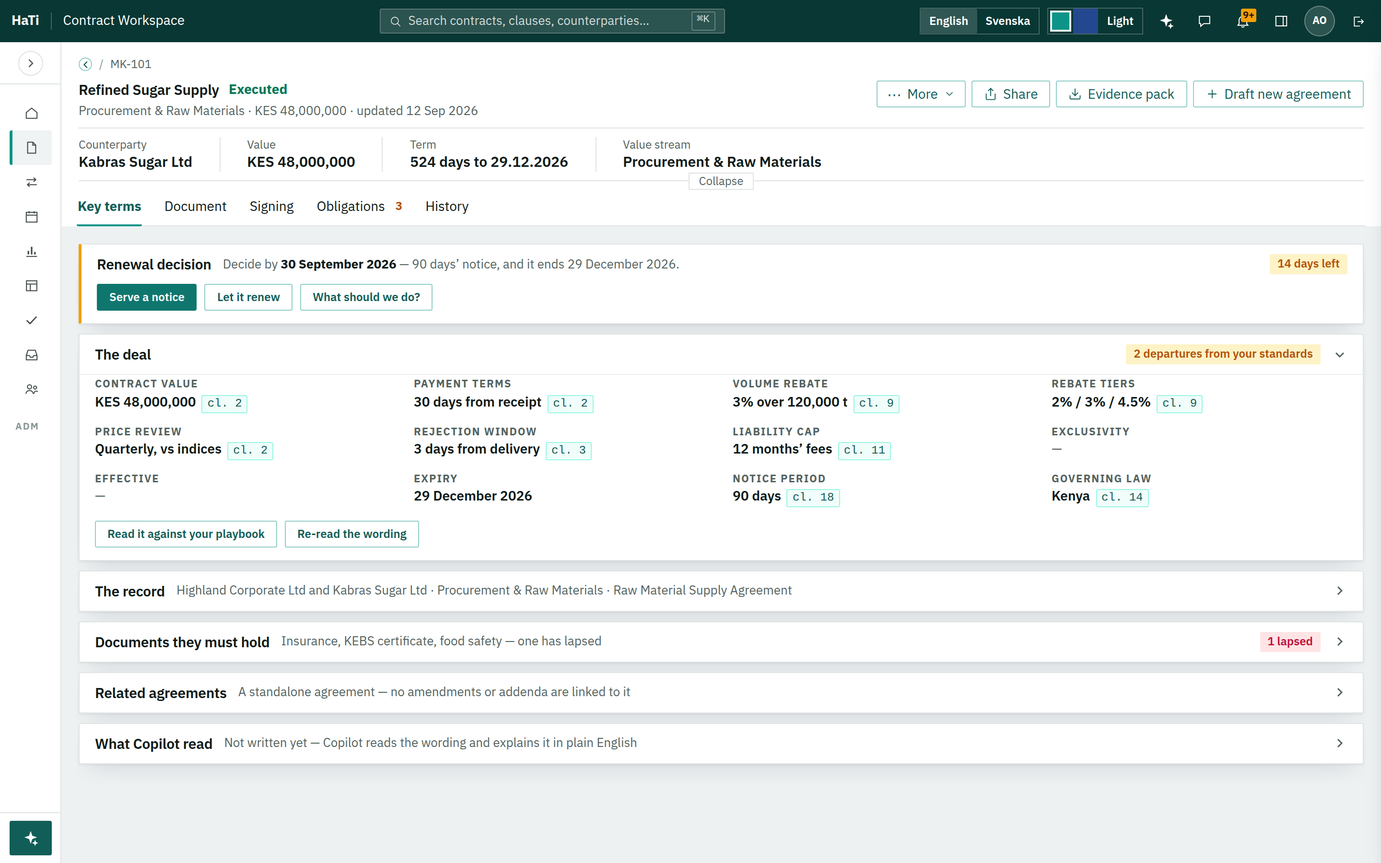
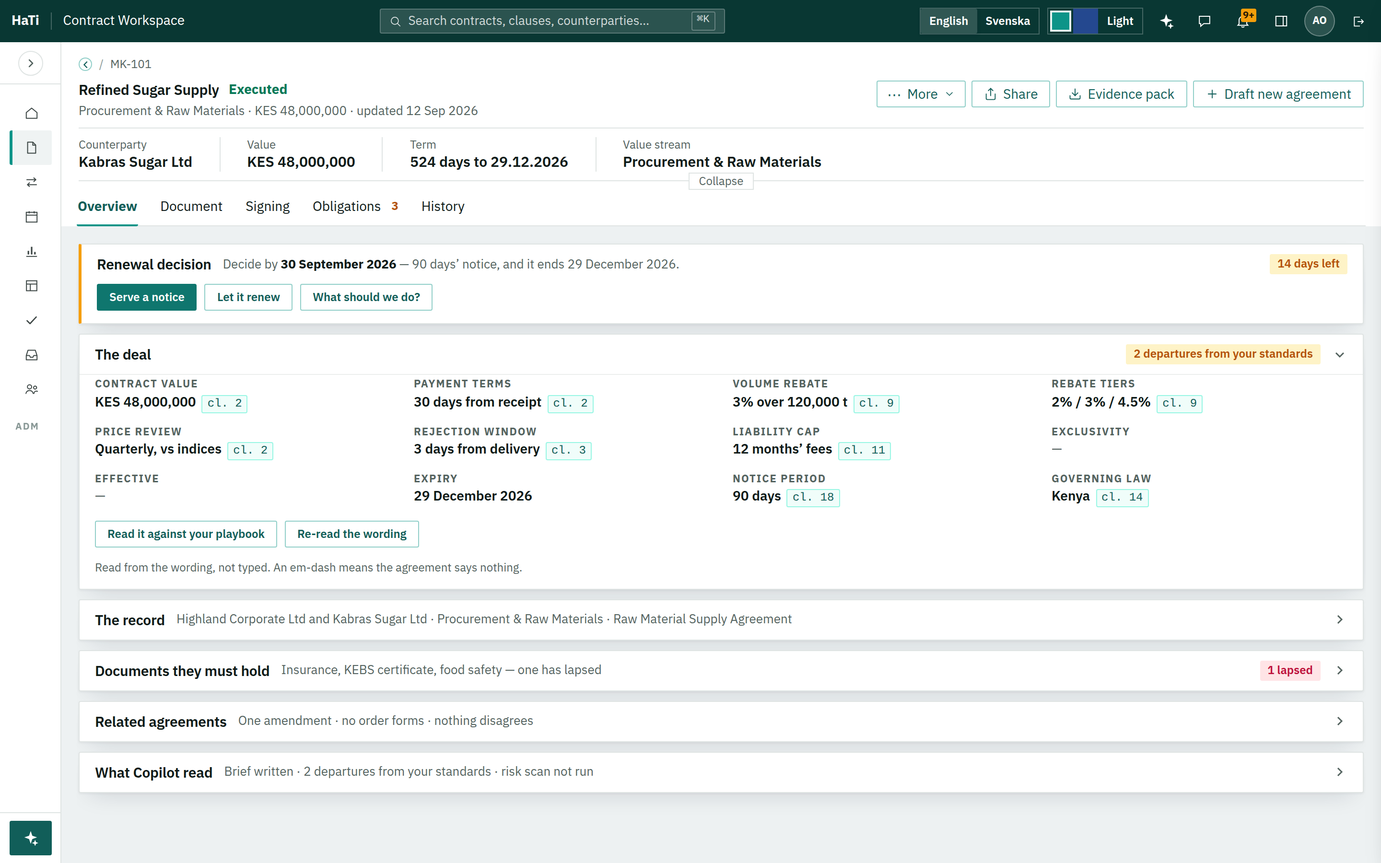
Rename the tab to Overview and show every section opened
Two changes the owner asked for after seeing the redesign.

The tab is renamed from Key terms to Overview in every render — it now
holds the deal, the filing record, the required documents, the family
and every reading Copilot has made, which is more than key terms. The
other four room tabs keep their names.

The four collapsed sections were shut in all the earlier pictures, so
nothing showed what was inside them. Added a fifteenth full screen with
every section expanded, captured on a tall viewport so none of the
1,495px stack is cut off, plus a written list of each section's fields
and acts.

What the opened sections hold: The record — twelve filing attributes
with Edit and Move to another stream. Documents they must hold — a
table of the certificate, the clause requiring it, what is on file and
how long it is good for, with Chase them and Require another. Related
agreements — parent, amendments, order forms, order of precedence, then
the family itself one row per document with whether it agrees. What
Copilot read — the brief, the playbook pass, the obligations found, the
risk scan and the plain-English edition, each with its date and a door,
which is where the old Write the brief button now lives.

Claude-Session: https://claude.ai/code/session_014huwJ3Ngo4EuqV3t8NyciQ

Changed region(s): [[0.0625, 0.6222, 1.0, 0.9022], [0.0625, 0.2178, 0.3438, 0.2489]]

diff --git a/docs/review-shots/overview3.js b/docs/review-shots/overview3.js
@@ -1,0 +1,185 @@
+const fs=require('node:fs'), path=require('node:path');
+const { chromium } = require('/home/user/mkataba-clm/node_modules/playwright-core');
+const { startHati, seedWorkspace } = require('/home/user/mkataba-clm/test/helpers');
+const { CONTRACTS } = require('/tmp/claude-0/-home-user-mkataba-clm/54a1252e-7fd0-584c-b937-a8fcb2070e56/scratchpad/seed.js');
+const OUT='/tmp/claude-0/-home-user-mkataba-clm/54a1252e-7fd0-584c-b937-a8fcb2070e56/scratchpad/shots';
+
+const LIB = `
+  const SEC='background:var(--color-surface);border:1px solid var(--color-divider);box-shadow:var(--shadow-sm);border-radius:var(--radius);margin-bottom:10px';
+  const HEAD='display:flex;align-items:center;gap:12px;padding:10px 16px;cursor:pointer';
+  const H='margin:0;font-size:var(--t-card);font-weight:var(--w-strong);font-family:var(--font-heading);flex:none';
+  const SUM='font-size:var(--t-meta);color:var(--color-neutral-600);flex:1;min-width:0;overflow:hidden;text-overflow:ellipsis;white-space:nowrap';
+  const GRID='display:grid;grid-template-columns:repeat(4,minmax(0,1fr));gap:12px 24px;padding:2px 16px 14px';
+  const chip=(t,tone)=>'<span style="font-size:var(--t-label);font-weight:var(--w-strong);color:var(--st-'+tone+'-fg);background:var(--st-'+tone+'-bg);border-radius:var(--radius);padding:2px 8px;flex:none">'+t+'</span>';
+  const chev=o=>'<svg width="16" height="16" viewBox="0 0 16 16" fill="none" stroke="var(--color-neutral-500)" stroke-width="1.5" style="flex:none;transform:rotate('+(o?'0':'-90')+'deg)"><path d="M4 6l4 4 4-4"/></svg>';
+  const f=(l,v,cl,tone)=>'<div style="min-width:0">'
+    +'<div style="font-size:var(--t-micro);font-weight:var(--w-title);letter-spacing:.09em;text-transform:uppercase;color:var(--color-neutral-600);margin-bottom:1px">'+l+'</div>'
+    +'<div style="display:flex;align-items:baseline;gap:6px;min-width:0">'
+    +'<span style="font-size:var(--t-body);font-weight:var(--w-strong);'+(tone?'color:'+tone+';':'')+'min-width:0;overflow:hidden;text-overflow:ellipsis;white-space:nowrap">'+v+'</span>'
+    +(cl?'<span style="font-family:var(--font-code);font-size:var(--t-label);color:var(--accent-ink);border:1px solid var(--color-accent-200);background:var(--color-accent-50);border-radius:var(--radius);padding:0 5px;flex:none">'+cl+'</span>':'')
+    +'</div></div>';
+  const dash='<span style="color:var(--color-neutral-500);font-weight:400">&mdash;</span>';
+  const btn=(t,pri)=>'<button type="button" class="ui-btn'+(pri?' ui-btn-primary':'')+'" style="font-size:var(--t-label);padding:5px 12px">'+t+'</button>';
+  const acts=h=>'<div style="display:flex;gap:8px;padding:0 16px 13px;flex-wrap:wrap">'+h+'</div>';
+  const foot=t=>'<p style="margin:0;padding:0 16px 13px;font-size:var(--t-label);color:var(--color-neutral-600)">'+t+'</p>';
+  const secOpen=(title,chipHtml,body,actsHtml,footHtml)=>'<section style="'+SEC+'">'
+    +'<div style="'+HEAD+';border-bottom:1px solid var(--rule-faint)"><h3 style="'+H+'">'+title+'</h3>'
+      +'<span style="'+SUM+'"></span>'+(chipHtml||'')+chev(1)+'</div>'
+    +body+(actsHtml?acts(actsHtml):'')+(footHtml?foot(footHtml):'')+'</section>';
+  const secShut=(title,summary,chipHtml)=>'<section style="'+SEC+'">'
+    +'<div style="'+HEAD+'"><h3 style="'+H+'">'+title+'</h3>'
+      +'<span style="'+SUM+'">'+summary+'</span>'+(chipHtml||'')+chev(0)+'</div></section>';
+  const cols=b=>'<div style="'+GRID+'">'+b+'</div>';
+  const TH='text-align:left;font-size:var(--t-micro);font-weight:var(--w-title);letter-spacing:.09em;text-transform:uppercase;color:var(--color-neutral-600);padding:8px 0;border-bottom:1px solid var(--rule-faint)';
+  const TD='padding:10px 0;border-bottom:1px solid var(--rule-faint);font-size:var(--t-body)';
+`;
+
+const SECTIONS = `
+  const renewal='<section style="'+SEC+';border-left:3px solid var(--st-amber-dot)">'
+    +'<div style="'+HEAD+'"><h3 style="'+H+'">Renewal decision</h3>'
+      +'<span style="'+SUM+'">Decide by <b style="color:var(--color-text)">30 September 2026</b> &mdash; 90 days&rsquo; notice, and it ends 29 December 2026.</span>'
+      +chip('14 days left','amber')+'</div>'
+    +acts(btn('Serve a notice',1)+btn('Let it renew')+btn('What should we do?'))+'</section>';
+
+  const dealBody=cols(
+      f('Contract value','KES 48,000,000','cl. 2')+f('Payment terms','30 days from receipt','cl. 2')
+     +f('Volume rebate','3% over 120,000 t','cl. 9')+f('Rebate tiers','2% / 3% / 4.5%','cl. 9')
+     +f('Price review','Quarterly, vs indices','cl. 2')+f('Rejection window','3 days from delivery','cl. 3')
+     +f('Liability cap','12 months&rsquo; fees','cl. 11')+f('Exclusivity',dash)
+     +f('Effective',dash)+f('Expiry','29 December 2026')+f('Notice period','90 days','cl. 18')+f('Governing law','Kenya','cl. 14'));
+  const deal=secOpen('The deal', chip('2 departures from your standards','amber'), dealBody,
+      btn('Read it against your playbook')+btn('Re-read the wording'),
+      'Read from the wording, not typed. An em-dash means the agreement says nothing.');
+
+  const recordBody=cols(
+      f('Reference','MK-101')+f('Our party','Highland Corporate Ltd')+f('Counterparty','Kabras Sugar Ltd')+f('Their email',dash)
+     +f('Value stream','Procurement &amp; Raw Materials')+f('Template','Raw Material Supply Agreement')
+     +f('Owner','Amina Otieno')+f('Status','Executed')
+     +f('Raised','23 July 2025')+f('Signed','23 July 2025')+f('Filed by','Amina Otieno')+f('Last updated','12 September 2026'));
+  const recordSum='Highland Corporate Ltd and Kabras Sugar Ltd &middot; Procurement &amp; Raw Materials &middot; Raw Material Supply Agreement';
+
+  const docsBody='<div style="padding:2px 16px 8px"><table style="width:100%;border-collapse:collapse;table-layout:fixed">'
+    +'<colgroup><col><col style="width:110px"><col style="width:190px"><col style="width:180px"><col style="width:130px"></colgroup>'
+    +'<thead><tr><th style="'+TH+'">Document</th><th style="'+TH+'">Required by</th><th style="'+TH+'">On file</th><th style="'+TH+'">Good until</th><th style="'+TH+'"></th></tr></thead><tbody>'
+    +'<tr><td style="'+TD+';font-weight:var(--w-strong)">Product liability insurance</td><td style="'+TD+'"><span style="font-family:var(--font-code);font-size:var(--t-label);color:var(--accent-ink)">cl. 8</span></td>'
+      +'<td style="'+TD+';color:var(--color-neutral-600)">Policy 2026 &middot; PDF</td><td style="'+TD+';color:var(--st-ruby-fg);font-weight:var(--w-strong)">Lapsed 14 Sept</td>'
+      +'<td style="'+TD+'"><a href="#" style="color:var(--accent-ink);font-weight:var(--w-strong)">Chase them</a></td></tr>'
+    +'<tr><td style="'+TD+';font-weight:var(--w-strong)">KEBS standard certificate</td><td style="'+TD+'"><span style="font-family:var(--font-code);font-size:var(--t-label);color:var(--accent-ink)">cl. 1</span></td>'
+      +'<td style="'+TD+';color:var(--color-neutral-600)">KS 2456:2024</td><td style="'+TD+'">30 April 2027</td>'
+      +'<td style="'+TD+'"><a href="#" style="color:var(--accent-ink)">Replace</a></td></tr>'
+    +'<tr><td style="'+TD+';font-weight:var(--w-strong)">Food safety (FSSC 22000)</td><td style="'+TD+'"><span style="font-family:var(--font-code);font-size:var(--t-label);color:var(--accent-ink)">cl. 3</span></td>'
+      +'<td style="'+TD+';color:var(--color-neutral-500);font-style:italic">Never supplied</td><td style="'+TD+'">'+dash+'</td>'
+      +'<td style="'+TD+'"><a href="#" style="color:var(--accent-ink);font-weight:var(--w-strong)">Ask for it</a></td></tr>'
+    +'</tbody></table></div>';
+  const docsSum='Insurance, KEBS certificate, food safety &mdash; one has lapsed';
+
+  const famBody=cols(
+      f('Parent','None &mdash; this is the top')+f('Amendments','1')+f('Order forms',dash)+f('Order of precedence','This agreement wins','cl. 21'))
+    +'<div style="padding:2px 16px 8px"><table style="width:100%;border-collapse:collapse;table-layout:fixed">'
+    +'<colgroup><col style="width:130px"><col><col style="width:190px"><col style="width:160px"></colgroup>'
+    +'<thead><tr><th style="'+TH+'">Reference</th><th style="'+TH+'">Document</th><th style="'+TH+'">Signed</th><th style="'+TH+'">Agrees?</th></tr></thead><tbody>'
+    +'<tr><td style="'+TD+'"><span style="font-family:var(--font-code);font-size:var(--t-meta);color:var(--accent-ink)">MK-101-A1</span></td>'
+      +'<td style="'+TD+';font-weight:var(--w-strong)">Amendment 1 &mdash; price review moved to quarterly</td>'
+      +'<td style="'+TD+';color:var(--color-neutral-600)">4 March 2026</td>'
+      +'<td style="'+TD+';color:var(--st-green-fg);font-weight:var(--w-strong)">Agrees</td></tr>'
+    +'</tbody></table></div>';
+  const famSum='One amendment &middot; no order forms &middot; nothing disagrees';
+
+  const copilotBody='<div style="padding:2px 16px 8px"><table style="width:100%;border-collapse:collapse;table-layout:fixed">'
+    +'<colgroup><col style="width:210px"><col><col style="width:150px"><col style="width:150px"></colgroup>'
+    +'<thead><tr><th style="'+TH+'">Reading</th><th style="'+TH+'">What it found</th><th style="'+TH+'">When</th><th style="'+TH+'"></th></tr></thead><tbody>'
+    +'<tr><td style="'+TD+';font-weight:var(--w-strong)">The brief</td>'
+      +'<td style="'+TD+';color:var(--color-neutral-600)">A two-year sugar supply on our own paper. Watch the quarterly price review &mdash; it is tied to an index with no ceiling.</td>'
+      +'<td style="'+TD+';color:var(--color-neutral-600)">14 Sept 2026</td>'
+      +'<td style="'+TD+'"><a href="#" style="color:var(--accent-ink)">Read it all</a></td></tr>'
+    +'<tr><td style="'+TD+';font-weight:var(--w-strong)">Against your standards</td>'
+      +'<td style="'+TD+';color:var(--st-amber-fg)">2 departures &mdash; payment terms 30 days against your 45, no ceiling on the price review</td>'
+      +'<td style="'+TD+';color:var(--color-neutral-600)">14 Sept 2026</td>'
+      +'<td style="'+TD+'"><a href="#" style="color:var(--accent-ink);font-weight:var(--w-strong)">Open the review</a></td></tr>'
+    +'<tr><td style="'+TD+';font-weight:var(--w-strong)">Obligations found</td>'
+      +'<td style="'+TD+';color:var(--color-neutral-600)">3 &mdash; two theirs, one ours</td>'
+      +'<td style="'+TD+';color:var(--color-neutral-600)">14 Sept 2026</td>'
+      +'<td style="'+TD+'"><a href="#" style="color:var(--accent-ink)">Open Obligations</a></td></tr>'
+    +'<tr><td style="'+TD+';font-weight:var(--w-strong)">Risk scan</td>'
+      +'<td style="'+TD+';color:var(--color-neutral-500);font-style:italic">Not run on this wording</td>'
+      +'<td style="'+TD+'">'+dash+'</td>'
+      +'<td style="'+TD+'"><a href="#" style="color:var(--accent-ink);font-weight:var(--w-strong)">Run it</a></td></tr>'
+    +'<tr><td style="'+TD+';font-weight:var(--w-strong)">Plain English edition</td>'
+      +'<td style="'+TD+';color:var(--color-neutral-600)">Ready &mdash; 21 clauses, read clause by clause</td>'
+      +'<td style="'+TD+';color:var(--color-neutral-600)">14 Sept 2026</td>'
+      +'<td style="'+TD+'"><a href="#" style="color:var(--accent-ink)">Open it</a></td></tr>'
+    +'</tbody></table></div>';
+  const copilotSum='Brief written &middot; 2 departures from your standards &middot; risk scan not run';
+`;
+
+(async()=>{
+  const h=await startHati(); await seedWorkspace(h,{contracts:CONTRACTS});
+  const b=await chromium.launch({executablePath:'/opt/pw-browsers/chromium',args:['--no-sandbox']});
+  const page=await b.newPage({viewport:{width:1440,height:900},deviceScaleFactor:2});
+  await page.goto(h.base+'/',{waitUntil:'networkidle'});
+  await page.fill('#li-email','admin@example.co.ke'); await page.fill('#li-pass','adminpassword1');
+  await page.click('#li-go'); await page.waitForTimeout(3800);
+  const rename=()=>page.evaluate(()=>{const t=document.querySelector('[data-room-tab="terms"]'); if(t) t.textContent='Overview';});
+  await page.evaluate(()=>openWorkspace('MK-101')); await page.waitForTimeout(2400);
+  await page.click('[data-room-tab="terms"]'); await page.waitForTimeout(1800);
+  await rename();
+
+  // ---- state 1: how it opens ----
+  const m1=await page.evaluate(LIB+SECTIONS+`
+    const grid=document.querySelector('.terms-grid');
+    grid.style.display='block';
+    grid.innerHTML='<div>'+renewal+deal
+      +secShut('The record',recordSum,'')
+      +secShut('Documents they must hold',docsSum,chip('1 lapsed','ruby'))
+      +secShut('Related agreements',famSum,'')
+      +secShut('What Copilot read',copilotSum,'')+'</div>';
+    const p=grid.firstElementChild;
+    ({stack:Math.round(p.getBoundingClientRect().height),track:Math.round(grid.getBoundingClientRect().height)});
+  `);
+  console.log('DEFAULT', JSON.stringify(m1));
+  await page.waitForTimeout(400);
+  await page.screenshot({path:path.join(OUT,'H1-overview.png')});
+
+  // ---- state 2: every section open ----
+  const m2=await page.evaluate(LIB+SECTIONS+`
+    const grid=document.querySelector('.terms-grid');
+    grid.style.display='block';
+    grid.innerHTML='<div>'+renewal+deal
+      +secOpen('The record','<span style="font-size:var(--t-meta);color:var(--color-neutral-600)">What HaTi files this as</span>',recordBody,btn('Edit these details')+btn('Move to another stream'),'')
+      +secOpen('Documents they must hold',chip('1 lapsed','ruby'),docsBody,btn('Chase them')+btn('Require another document'),'Chases go to the contact on the contract, never to an address typed here. These are the same rows the Obligations tab tracks.')
+      +secOpen('Related agreements','<span style="font-size:var(--t-meta);color:var(--color-neutral-600)">One amendment</span>',famBody,btn('Create an amendment')+btn('Link an existing document')+btn('Check the family'),'')
+      +secOpen('What Copilot read',chip('2 departures','amber'),copilotBody,btn('Read it all again'),'Every reading says when it was made. A reading older than the wording is offered again rather than trusted.')
+      +'</div>';
+    const p=grid.firstElementChild;
+    ({stack:Math.round(p.getBoundingClientRect().height),track:Math.round(grid.getBoundingClientRect().height)});
+  `);
+  console.log('ALL OPEN', JSON.stringify(m2));
+  await page.setViewportSize({width:1440,height:1820});
+  await page.waitForTimeout(900);
+  await page.evaluate(()=>{const g=document.querySelector('.terms-grid'); if(g){g.style.height='auto';g.style.overflow='visible';}});
+  await page.waitForTimeout(500);
+  await page.screenshot({path:path.join(OUT,'H3-overview-open.png')});
+  await page.setViewportSize({width:1440,height:900});
+  await page.waitForTimeout(600);
+
+  // ---- the NDA, renamed ----
+  await page.evaluate(()=>openWorkspace('MK-121')); await page.waitForTimeout(2200);
+  await page.click('[data-room-tab="terms"]'); await page.waitForTimeout(1600);
+  await rename();
+  await page.evaluate(LIB+`
+    const grid=document.querySelector('.terms-grid');
+    grid.style.display='block';
+    const ndaBody='<div style="'+GRID+'">'
+      +f('Contract value','No money passes')+f('Effective',dash)+f('Expiry','20 November 2027')+f('Notice period',dash)
+      +f('Confidentiality','3 years','cl. 4')+f('Governing law','Kenya','cl. 9')+f('Liability cap',dash)+f('Exclusivity',dash)
+      +'</div>';
+    grid.innerHTML='<div>'
+      +secOpen('The deal','',ndaBody,btn('Read it against your playbook'),'Read from the wording, not typed.')
+      +secShut('The record','Highland Corporate Ltd and Givaudan East Africa &middot; Corporate &amp; Compliance &middot; Mutual NDA','')
+      +secShut('Related agreements','A standalone agreement','')
+      +secShut('What Copilot read','Not written yet','')+'</div>';
+  `);
+  await page.waitForTimeout(400);
+  await page.screenshot({path:path.join(OUT,'H2-overview-nda.png')});
+  await b.close(); process.exit(0);
+})().catch(e=>{console.error(e);process.exit(1);});

diff --git a/HaTi-Next-Fifteen-product-review.html b/HaTi-Next-Fifteen-product-review.html
@@ -186,7 +186,7 @@ table.ld tr:last-child td{border-bottom:0}
     <p class="stand">Six full screens, each shown as HaTi draws it today and again with the fifteen additions placed
       on it. Both pictures are the real product running &mdash; not drawings of it.</p>
     <div class="meta">
-      <span><b>14</b> full screens</span>
+      <span><b>15</b> full screens</span>
       <span><b>6</b> pages touched</span>
       <span><b>0</b> new doors in the sidebar</span>
       <span><b>1</b> new tab anywhere</span>
@@ -310,7 +310,7 @@ table.ld tr:last-child td{border-bottom:0}
 <!-- ===================== THE CONTRACT ROOM ===================== -->
 <article class="screen" id="room">
   <div class="screen-top"><span class="screen-n">3 of 6</span>
-    <h3>The contract room &mdash; redesigned, not extended</h3>
+    <h3>The contract room &mdash; Key terms becomes Overview</h3>
     <p class="carries">Carries <b>S2</b> commercial terms &middot; <b>S8</b> required documents &middot;
       <b>S6</b> serve a notice &middot; <b>S12</b> the family check</p>
   </div>
@@ -365,15 +365,48 @@ table.ld tr:last-child td{border-bottom:0}
       <div class="frame"><img src="docs/review-shots/C2-room-future.png" alt="The same tab with Commercial terms and Documents they must hold added as two more cards in the right column, which now stacks to 1046 pixels in a 632 pixel track and scrolls" loading="lazy"></div>
     </figure>
     <figure class="plate now">
-      <input type="checkbox" class="zm" id="z-h1"><figcaption><span class="dot"></span>Recommended &mdash; one page of named sections
+      <input type="checkbox" class="zm" id="z-h1"><figcaption><span class="dot"></span>Recommended &mdash; the tab renamed <b style="font-family:var(--sans);letter-spacing:0;text-transform:none;font-size:12.5px">Overview</b>, as it opens
         <label class="zoom" for="z-h1">Full size</label></figcaption>
-      <div class="frame"><img src="docs/review-shots/H1-overview.png" alt="The redesigned tab: a renewal decision strip with its acts, The deal open with twelve terms in four columns each quoting its clause, then collapsed rows for The record, Documents they must hold, Related agreements and What Copilot read" loading="lazy"></div>
+      <div class="frame"><img src="docs/review-shots/H1-overview.png" alt="The redesigned tab, now called Overview: a renewal decision strip with its acts, The deal open with twelve terms in four columns each quoting its clause, then four collapsed rows each carrying its own summary" loading="lazy"></div>
+    </figure>
+    <figure class="plate now">
+      <input type="checkbox" class="zm" id="z-h3"><figcaption><span class="dot"></span>Every section opened &mdash; what is inside the four shut rows
+        <label class="zoom" for="z-h3">Full size</label></figcaption>
+      <div class="frame"><img src="docs/review-shots/H3-overview-open.png" alt="The Overview tab with all six sections expanded: the renewal decision, The deal, The record with twelve filing attributes, Documents they must hold as a table of three certificates with expiry dates, Related agreements listing an amendment with an order of precedence, and What Copilot read as a table of five readings with dates" loading="lazy"></div>
     </figure>
     <figure class="plate now">
       <input type="checkbox" class="zm" id="z-h2"><figcaption><span class="dot"></span>The same design on an NDA
         <label class="zoom" for="z-h2">Full size</label></figcaption>
-      <div class="frame"><img src="docs/review-shots/H2-overview-nda.png" alt="The same tab on a mutual NDA: The deal open with eight terms, then three collapsed rows. No renewal section and no documents section, because neither has anything to say." loading="lazy"></div>
+      <div class="frame"><img src="docs/review-shots/H2-overview-nda.png" alt="The Overview tab on a mutual NDA: The deal open with eight terms, then three collapsed rows. No renewal section and no documents section, because neither has anything to say." loading="lazy"></div>
     </figure>
+  </div>
+
+  <h4 style="font-size:16px;font-weight:600;margin:32px 0 0">What is inside each section</h4>
+  <p style="margin-top:8px">Shut, a section is one row that already tells you the answer. Opened, this is what each
+    one holds &mdash; all of it drawn in the fourth picture above.</p>
+  <div class="keys" style="margin-top:14px">
+    <div><b>Renewal decision</b><span class="rf">open when there is one</span>The deadline, the notice period and
+      the end date in one sentence, then <i>Serve a notice</i>, <i>Let it renew</i> and <i>What should we do?</i>.
+      Outside the notice window the section is not drawn at all, exactly as the card behaves today.</div>
+    <div><b>The deal</b><span class="rf">open</span>Contract value, payment terms, volume rebate, rebate tiers,
+      price review, rejection window, liability cap, exclusivity, effective date, expiry, notice period, governing
+      law. Each figure carries the clause it was read from; an em-dash means the wording says nothing.</div>
+    <div><b>The record</b><span class="rf">shut</span>Reference, our party, counterparty, their email, value stream,
+      template, owner, status, raised, signed, filed by, last updated &mdash; what HaTi files this as, rather than
+      what the contract says. Acts: <i>Edit these details</i>, <i>Move to another stream</i>. Shut by default
+      because it is rarely the reason you opened the contract.</div>
+    <div><b>Documents they must hold</b><span class="rf">shut</span>A small table: the document, the clause that
+      requires it, what is on file, how long it is good for, and what to do. Product liability insurance lapsed on
+      14 September; the food safety certificate was never supplied. Acts: <i>Chase them</i>, <i>Require another
+      document</i>. The same rows the Obligations tab tracks and chases.</div>
+    <div><b>Related agreements</b><span class="rf">shut</span>Parent, amendments, order forms, and which document
+      wins where they disagree &mdash; then the family itself, one row per document with its signing date and
+      whether it agrees with the parent. Acts: <i>Create an amendment</i>, <i>Link an existing document</i>,
+      <i>Check the family</i>.</div>
+    <div><b>What Copilot read</b><span class="rf">shut</span>Every reading in one table: the brief and what it says,
+      the playbook pass and its departures, the obligations found, whether the risk scan has been run, and whether
+      the plain-English edition is ready &mdash; each with the date it was made and a door into it. This is where
+      the old <i>Write the brief</i> button lives, alongside the other four readings it used to sit apart from.</div>
   </div>
 
   <div class="cmp">
@@ -400,16 +433,18 @@ table.ld tr:last-child td{border-bottom:0}
       <i>&ldquo;Not written yet&rdquo;</i>. You usually do not need to open it. This is Ironclad&rsquo;s rule &mdash;
       hide what is not acted on &mdash; and Icertis&rsquo;s collapsible groups.</div>
     <div><b>Write the brief and the Agreement family both survive</b><span class="rf">unchanged</span> &mdash; as
-      the sections <i>What Copilot read</i> and <i>Related agreements</i>, with their buttons inside. Nothing that
-      exists today is removed; it is renamed and regrouped so there is one place to look instead of five.</div>
+      the sections <i>What Copilot read</i> and <i>Related agreements</i>, with their buttons inside, and both are
+      opened in the fourth picture so you can see it. Nothing that exists today is removed; it is regrouped so
+      there is one place to look instead of five.</div>
     <div><b>The renewal decision leads, and only when there is one</b><span class="rf">S6</span> &mdash; one
       sentence, three acts, an amber marker, exactly the facts the card carries today in a third of the height. On a
       contract outside its notice window it is not drawn at all, as now.</div>
     <div><b>Documents they must hold is a row here and rows there</b><span class="rf">S8</span> &mdash; one reading
       drawn on two surfaces. The section summarises; the Obligations tab tracks the expiry dates and does the
       chasing, because that is what that tab is for.</div>
-    <div><b>One optional rename</b> &mdash; the tab now holds more than key terms, so <i>Overview</i> would describe
-      it better. That is a word, not a build, and it is entirely your call.</div>
+    <div><b>The tab is renamed <i>Overview</i></b> &mdash; it now holds the deal, the filing record, the required
+      documents, the family and every reading Copilot has made, which is more than key terms. The other four tabs
+      keep their names. That is a word, not a build.</div>
   </div>
   <p class="weight"><b>This is the one screen in the fifteen that gets simpler rather than fuller.</b> Six things to
     look at become one page with a predictable order; the busiest contract in the book fits without scrolling; and
@@ -548,9 +583,9 @@ table.ld tr:last-child td{border-bottom:0}
       <thead><tr><th>What a person sees</th><th>Today</th><th>After</th><th>What changes</th></tr></thead>
       <tbody>
         <tr><td>Doors in the sidebar</td><td>13</td><td class="same">13</td><td>Nothing. Nine everyday doors and four under Administration, unchanged.</td></tr>
-        <tr><td>Tabs inside a contract</td><td>5</td><td class="same">5</td><td>Nothing. Key terms, Document, Signing, Obligations, History.</td></tr>
+        <tr><td>Tabs inside a contract</td><td>5</td><td class="same">5</td><td>Still five. Key terms is renamed <b>Overview</b> because it now holds more than key terms; the other four are untouched.</td></tr>
         <tr><td>Tabs on Insights</td><td>5</td><td class="up">6</td><td>One: <b>Exposure</b>. The only new tab anywhere in the fifteen.</td></tr>
-        <tr><td>Boxes on the Key terms tab</td><td>4</td><td class="same">1 page</td><td>Fewer, not more. A panel plus three cards becomes one page of named sections, most of them a single collapsed row.</td></tr>
+        <tr><td>Boxes on the Key terms tab, renamed Overview</td><td>4</td><td class="same">1 page</td><td>Fewer, not more. A panel plus three cards becomes one page of named sections, most of them a single collapsed row.</td></tr>
         <tr><td>Filters shown on Contracts</td><td>4 of 5</td><td class="up">4 of 6</td><td>One more offered behind <i>Adapt filters</i>. The bar itself does not grow.</td></tr>
         <tr><td>Filters on Obligations</td><td>5</td><td class="same">5</td><td>Nothing. The <i>Side</i> filter this needs is already there.</td></tr>
         <tr><td>Bands on Obligations</td><td>3</td><td class="up">4</td><td>One, and only once something has actually been earned.</td></tr>
@@ -575,7 +610,7 @@ table.ld tr:last-child td{border-bottom:0}
       <thead><tr><th>Ref</th><th>Addition</th><th>Where it sits</th><th>Shape it takes</th><th>Seen above</th></tr></thead>
       <tbody>
         <tr><td class="rf">S1</td><td>The Mailroom</td><td>Home &middot; Import contracts</td><td>Feeds the queue that exists</td><td>Screen 1</td></tr>
-        <tr><td class="rf">S2</td><td>Commercial terms</td><td>Contract room &middot; Key terms</td><td>A section of the contract overview</td><td>Screen 3</td></tr>
+        <tr><td class="rf">S2</td><td>Commercial terms</td><td>Contract room &middot; Overview</td><td>A section of the Overview tab</td><td>Screen 3</td></tr>
         <tr><td class="rf">S3</td><td>Clearance lanes</td><td>Settings &amp; Rules &middot; Requests</td><td>A settings panel, and a road</td><td>Screen 6</td></tr>
         <tr><td class="rf">S4</td><td>A front door with a clock</td><td>Requests</td><td>Three facts on each row</td><td>Screen 6</td></tr>
         <tr><td class="rf">S5</td><td>Where is my contract?</td><td>Outside the app</td><td>A link on the request</td><td>Screen 6</td></tr>
@@ -585,7 +620,7 @@ table.ld tr:last-child td{border-bottom:0}
         <tr><td class="rf">S9</td><td>Ask your book</td><td>The Copilot panel</td><td>Fills a greeting that is empty today</td><td>&mdash;</td></tr>
         <tr><td class="rf">S10</td><td>The exposure register</td><td>Insights</td><td>A sixth tab</td><td>Screen 5</td></tr>
         <tr><td class="rf">S11</td><td>What the negotiation was worth</td><td>The negotiation memo &middot; Reports</td><td>A section, and a strip</td><td>&mdash;</td></tr>
-        <tr><td class="rf">S12</td><td>The family check</td><td>Contract room &middot; Key terms</td><td>A button in Related agreements</td><td>Screen 3</td></tr>
+        <tr><td class="rf">S12</td><td>The family check</td><td>Contract room &middot; Overview</td><td>A button in Related agreements</td><td>Screen 3</td></tr>
         <tr><td class="rf">S13</td><td>Bulk amendments</td><td>Contracts</td><td>One act above the table</td><td>Screen 2</td></tr>
         <tr><td class="rf">S14</td><td>The diligence pack</td><td>Contracts</td><td>A row in that same menu</td><td>Screen 2</td></tr>
         <tr><td class="rf">S15</td><td>HaTi in the chat</td><td>Settings &middot; outside the app</td><td>A settings panel</td><td>&mdash;</td></tr>
@@ -613,8 +648,8 @@ table.ld tr:last-child td{border-bottom:0}
           and it is the one change a nine-person business feels on the first day.</p></div>
       <div class="refs"><span>S1</span></div></div>
     <div class="relrow"><p class="when">Release 2</p>
-      <div><h4>The contract overview</h4>
-        <p>The Key terms tab is rebuilt as one page of named sections, and the four additions land inside it. The
+      <div><h4>The contract Overview</h4>
+        <p>The Key terms tab is renamed and rebuilt as one page of named sections, and the four additions land inside it. The
           largest single piece of work in the fifteen, and the only one that makes a screen simpler than it is today
           &mdash; also the release that wins a procurement buyer.</p></div>
       <div class="refs"><span>S2</span><span>S6</span><span>S8</span><span>S12</span></div></div>
@@ -683,6 +718,6 @@ table.ld tr:last-child td{border-bottom:0}
       the screen, and none of it appears until it has something to say. <b>One screen ends up simpler than it is
       today:</b> the contract overview holds two and a half times as many facts in the same height, because it was
       regrouped rather than filled.</p>
-    <p class="mono">14 full screens &middot; 6 pages touched &middot; 0 new sidebar doors &middot; 1 new tab &middot; 1 screen redesigned</p>
+    <p class="mono">15 full screens &middot; 6 pages touched &middot; 0 new sidebar doors &middot; 1 new tab &middot; 1 screen redesigned</p>
   </div>
 </footer>
